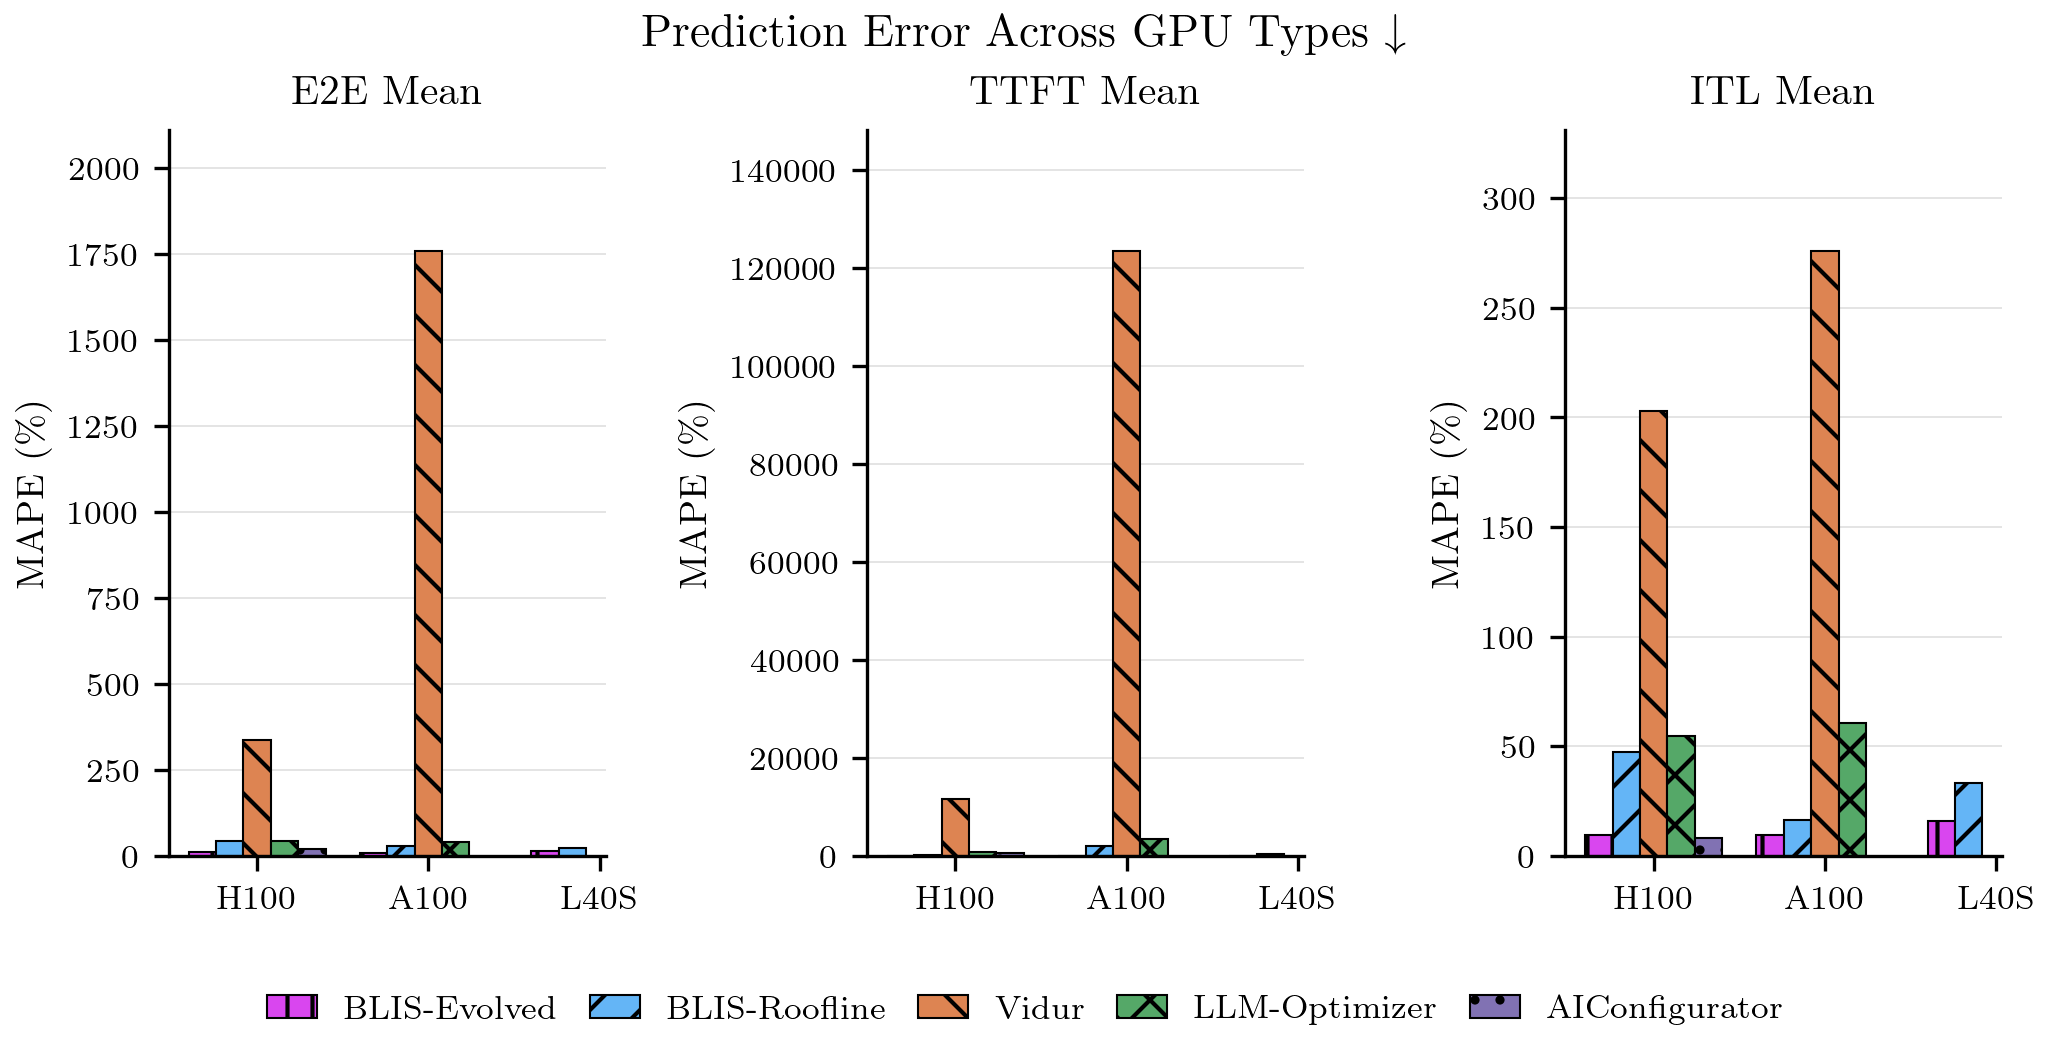
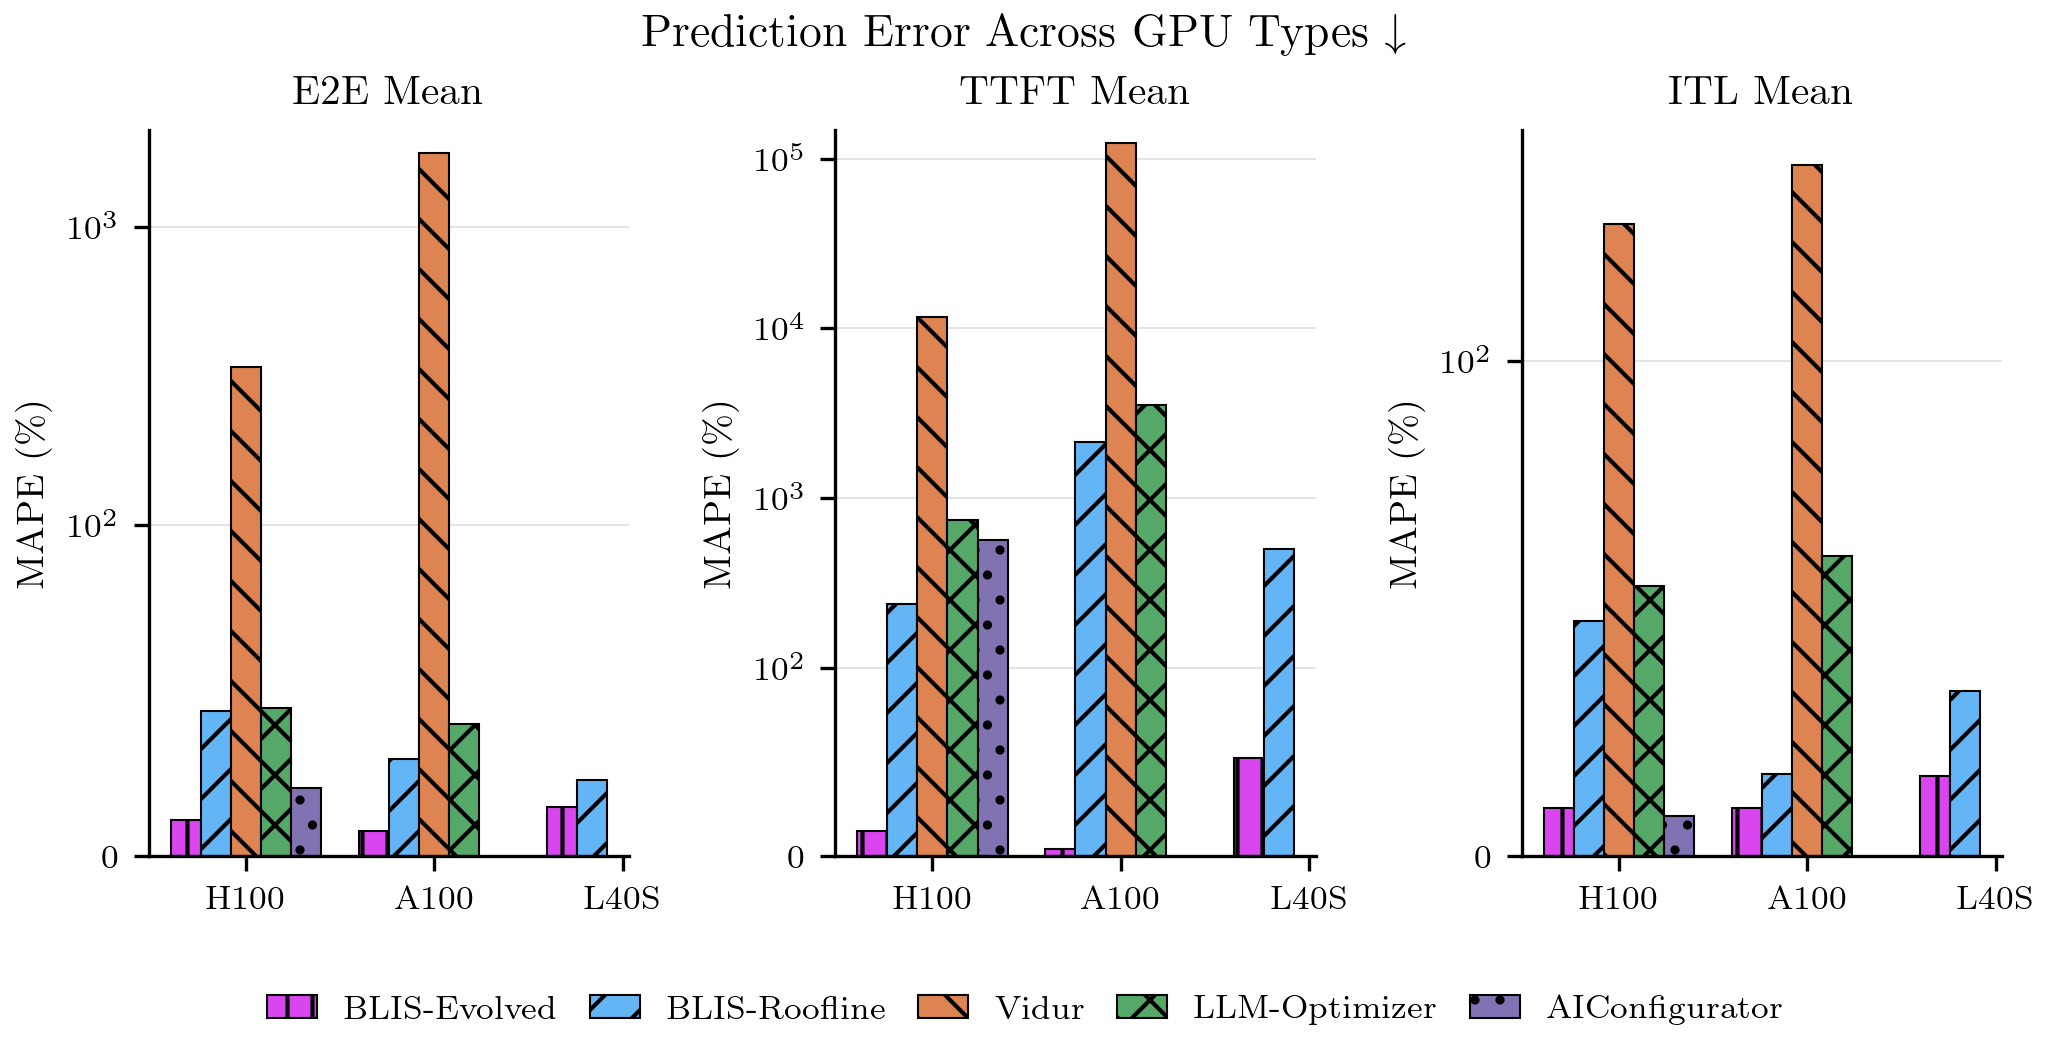
feat: add symlog scale to fig2 (hardware portability)
Adds symmetric logarithmic y-axis scale to Figure 2 with linear
threshold of 100. This better visualizes the wide range of MAPE
values across different hardware and simulators.

Changes:
- Added yscale and yscale_linthresh parameters to _grouped_bar()
- Updated plot_hardware_portability() to use symlog with linthresh=100
- Regenerated fig2_hardware_portability.pdf/png

diff --git a/experiment/figures.py b/experiment/figures.py
@@ -306,6 +306,8 @@ def _grouped_bar(
     aggregate: bool = False,
     xlabel_rotation: float = 35,
     metrics: list[tuple[str, str]] | None = None,
+    yscale: str | None = None,
+    yscale_linthresh: float = 100,
 ) -> plt.Figure | None:
     """Grouped bar chart: x = groups, bars = simulators, y = MAPE.
 
@@ -315,6 +317,10 @@ def _grouped_bar(
         If True, take the median MAPE per (group, simulator, metric).
     metrics : list of (key, label) pairs
         Which metrics to plot as subplots. Defaults to E2E Mean only.
+    yscale : str, optional
+        Scale for y-axis ('linear', 'log', 'symlog'). If None, uses linear.
+    yscale_linthresh : float, default=100
+        Linear threshold for symlog scale (values below this use linear scale).
     """
     _apply_rc_params()
     if metrics is None:
@@ -391,6 +397,12 @@ def _grouped_bar(
         y_top = col_maxes[col_idx] * 1.20 if col_maxes[col_idx] > 0 else 1.0
         ax.set_ylim(bottom=0, top=y_top)
         ax.set_ylabel(f"MAPE ({pct})")
+
+        # Apply y-axis scale if specified
+        if yscale == 'symlog':
+            ax.set_yscale('symlog', linthresh=yscale_linthresh)
+        elif yscale is not None:
+            ax.set_yscale(yscale)
 
     fig.suptitle(title, fontsize=11, fontweight="bold")
 
@@ -1201,6 +1213,8 @@ def plot_hardware_portability(
             ("ttft_mean", "TTFT Mean"),
             ("itl_mean", "ITL Mean"),
         ],
+        yscale='symlog',
+        yscale_linthresh=100,
     )
     if fig is None:
         warnings.warn("Figure 2: no hardware groups with data")
